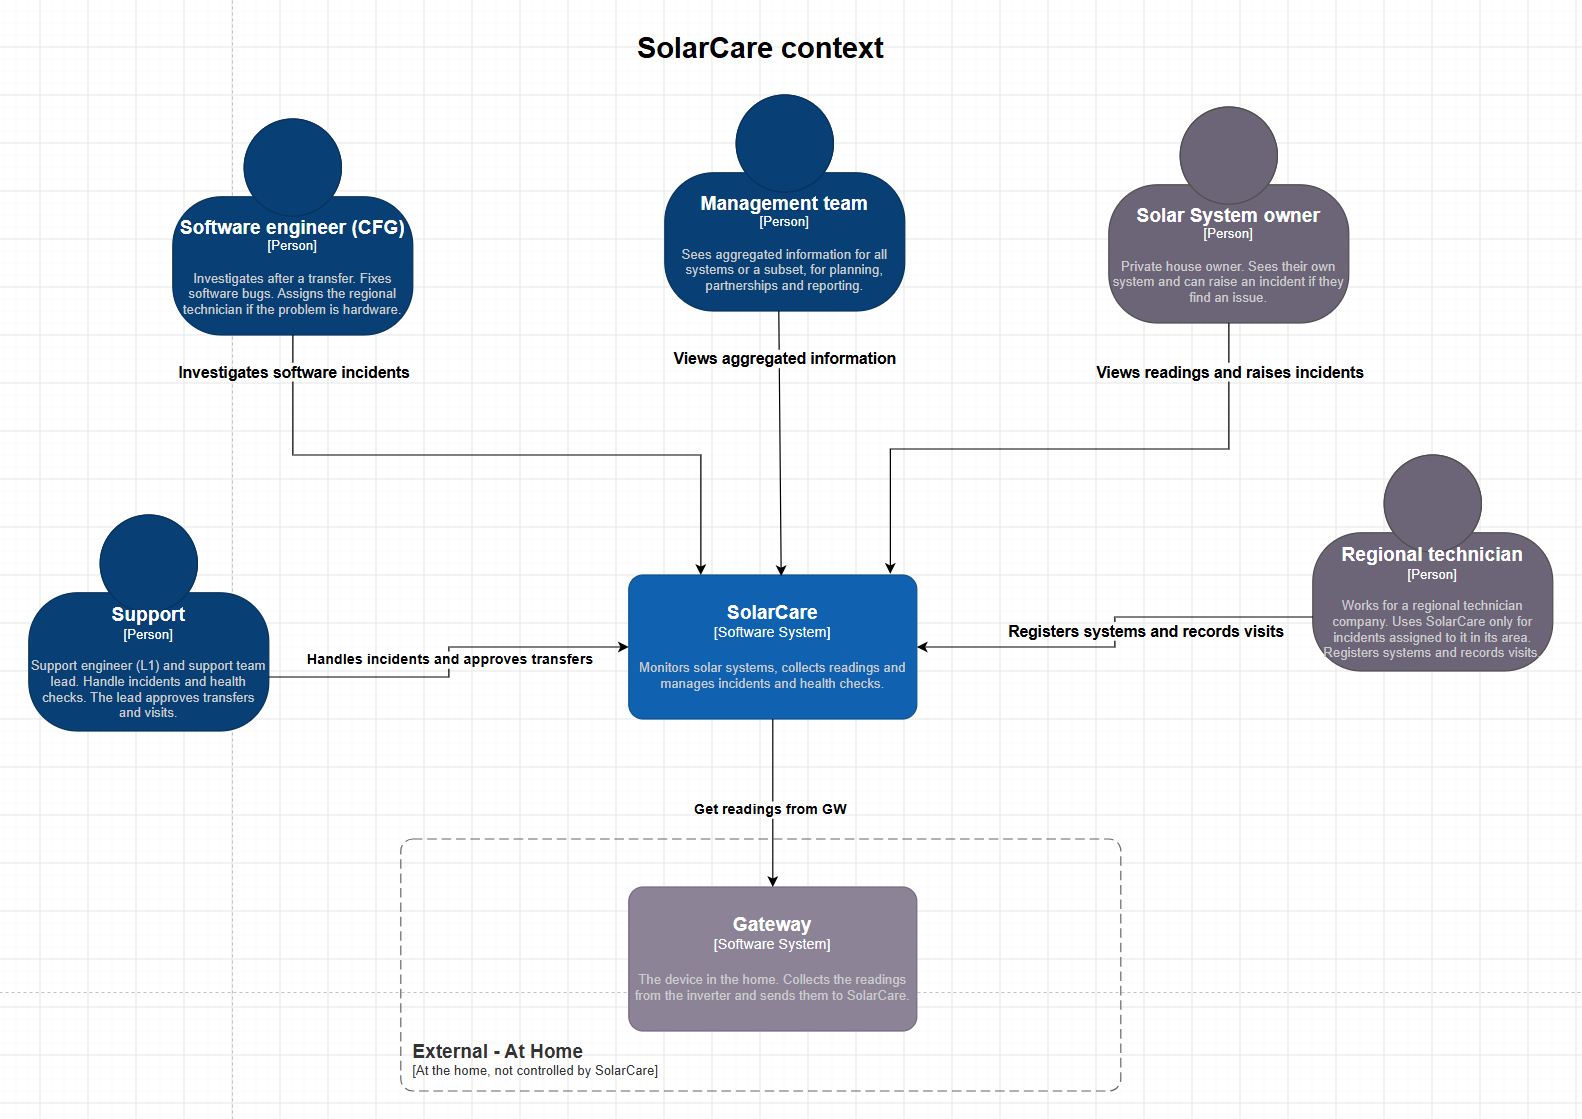
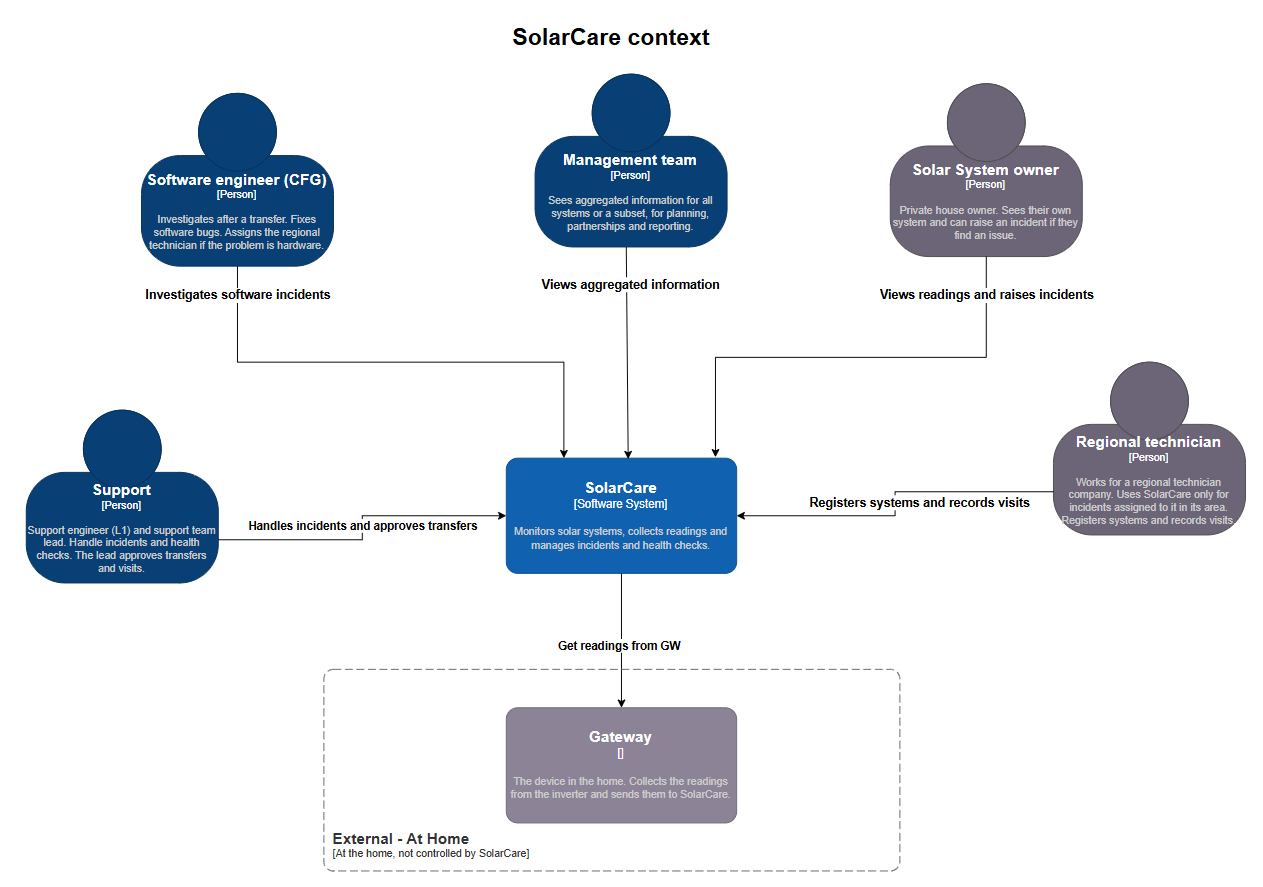
Add C4 container diagram, update context diagram, link to README

diff --git a/README.md b/README.md
@@ -58,7 +58,7 @@ SolarCare initially focuses on **monitoring and incident support for private hou
 The follwoing section shows the parts of SolarCare and how they connect, from the whole system down to the inside of the API.
 
 - [Context](diagrams/c4/SolarCareContextC4.png)
-- [Containers](diagrams/c4/container.md)
+- [Containers](diagrams/c4/SolarCareContainerC4.png)
 - [API components(?)](diagrams/c4/component.md)
 
 ## UML sequence diagrams
